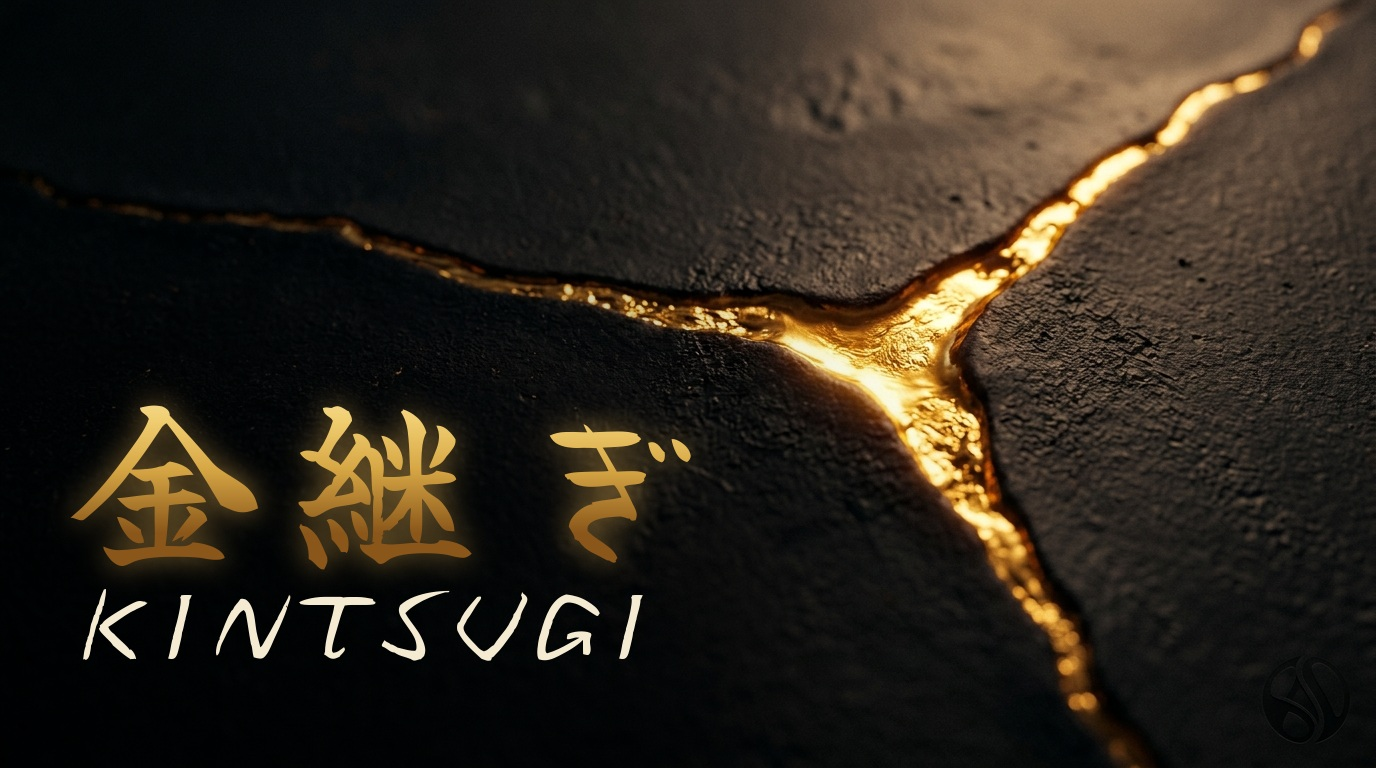
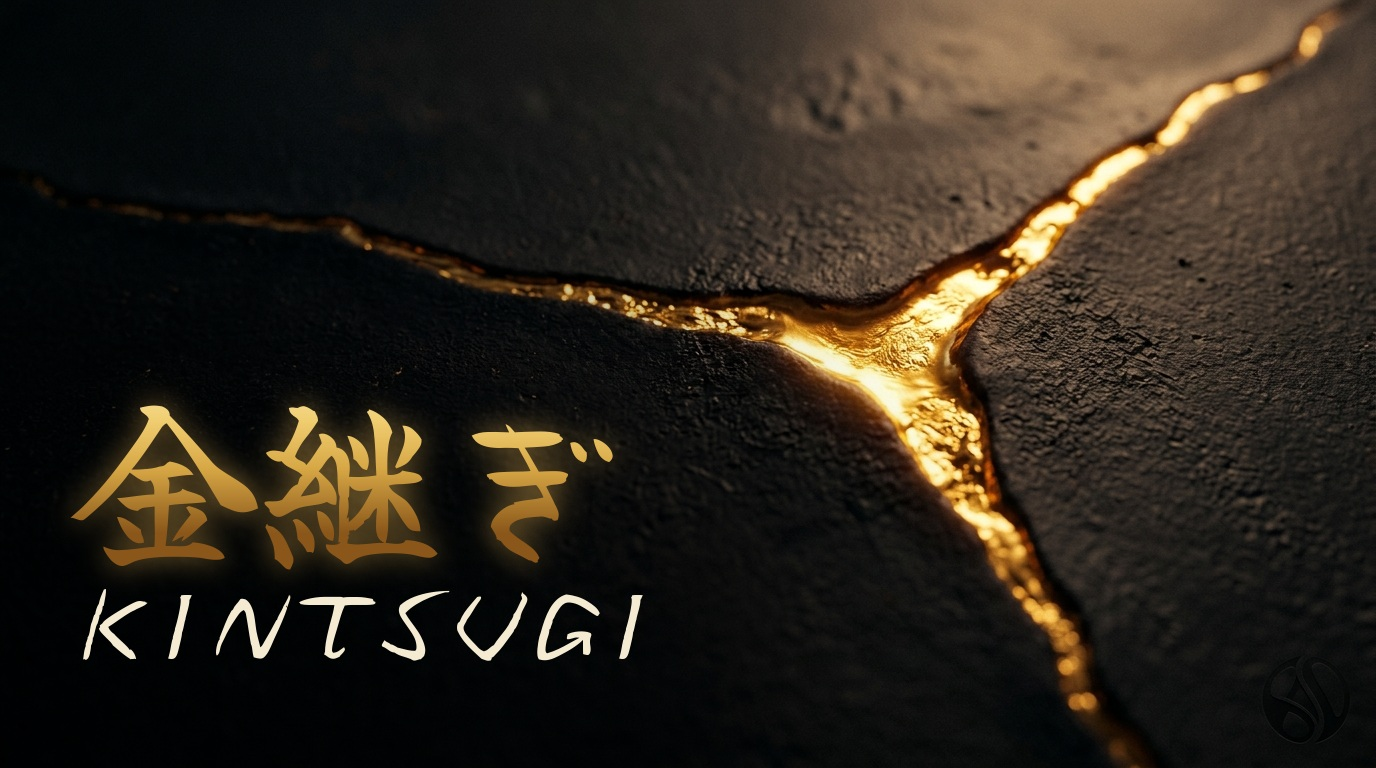
KINTSUGI thumbnail: even glyph spacing (place kanji at uniform centers)

Changed region(s): [[0.1875, 0.5, 0.5, 0.75]]

diff --git a/stillwave/assets/kintsugi-compose-thumb.py b/stillwave/assets/kintsugi-compose-thumb.py
@@ -19,14 +19,18 @@ kanji = ImageFont.truetype(FONT, 188)
 romaji = ImageFont.truetype(FONT, 96)
 x0, y0 = 70, int(H * 0.44)
 
-# --- kanji into a mask, packed tight by ink width (kills the brush font's ぎ gap) ---
+# --- kanji into a mask, placed at EVEN GLYPH CENTERS (uniform visual rhythm) ---
 mask = Image.new("L", (W, H), 0)
 md = ImageDraw.Draw(mask)
-cursor, gap = x0, 30
-for ch in ["金", "継", "ぎ"]:
+chars = ["金", "継", "ぎ"]
+pitch = 184
+nudge = {2: -10}  # pull ぎ slightly tighter
+l0, _, r0, _ = kanji.getbbox(chars[0])
+c0 = x0 + (r0 - l0) / 2  # first glyph's ink left edge sits at x0
+for i, ch in enumerate(chars):
     l, t, r, b = kanji.getbbox(ch)
-    md.text((cursor - l, y0), ch, font=kanji, fill=255)
-    cursor += (r - l) + gap
+    cx = c0 + i * pitch + nudge.get(i, 0)
+    md.text((cx - (l + (r - l) / 2), y0), ch, font=kanji, fill=255)
 
 # --- molten-gold vertical gradient (like the seam: hot core, amber, deep bronze) ---
 stops = [(0.00, (255, 240, 186)), (0.35, (240, 205, 112)),
